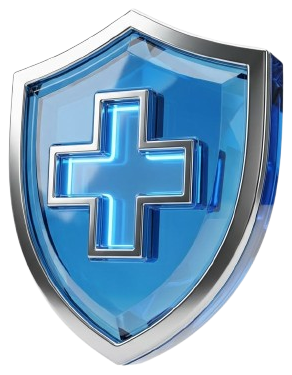
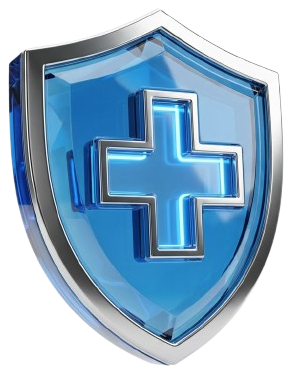
fix: jerarquia del modal de timeout y escudo a la izquierda

diff --git a/src/app/components/layout/SessionIdleModal.module.css b/src/app/components/layout/SessionIdleModal.module.css
@@ -11,31 +11,28 @@
 }
 
 .card {
-	width: min(520px, 100%);
-	padding: 1.65rem 1.7rem 1.4rem;
+	width: min(560px, 100%);
+	overflow: hidden;
 	border-radius: 16px;
 	background: #fff;
 	box-shadow: 0 24px 48px rgba(15, 23, 42, 0.22);
 	text-align: left;
 }
 
-.row {
+.main {
 	display: flex;
 	align-items: center;
-	gap: 1rem 1.15rem;
-}
-
-.copy {
-	flex: 1 1 auto;
-	min-width: 0;
+	gap: 0;
+	padding: 1.45rem 1.55rem 1.35rem;
 }
 
 .art {
 	flex: 0 0 auto;
 	display: block;
-	width: 108px;
+	width: 104px;
 	height: auto;
-	max-width: 108px;
+	max-width: 104px;
+	margin-right: 1.2rem;
 	border: 0;
 	border-radius: 0;
 	background: none;
@@ -45,35 +42,61 @@
 	user-select: none;
 }
 
+.rule {
+	flex: 0 0 1px;
+	align-self: stretch;
+	width: 1px;
+	margin: 0.15rem 1.25rem 0.15rem 0;
+	background: #e2e8f0;
+}
+
+.copy {
+	flex: 1 1 auto;
+	min-width: 0;
+}
+
 .kicker {
-	margin: 0 0 0.45rem;
-	font-size: 0.7rem;
+	margin: 0 0 0.4rem;
+	font-size: 0.68rem;
 	font-weight: 800;
-	letter-spacing: 0.08em;
+	letter-spacing: 0.1em;
 	text-transform: uppercase;
-	color: #0284c7;
+	color: #0083a9;
 }
 
 .title {
 	margin: 0;
-	font-size: 1.35rem;
+	font-size: 1.42rem;
 	font-weight: 800;
 	letter-spacing: -0.03em;
+	line-height: 1.15;
 	color: #0f172a;
 }
 
-.body {
+.lead {
 	margin: 0.7rem 0 0;
-	font-size: 0.95rem;
+	padding-top: 0.7rem;
+	border-top: 1px solid #eef2f6;
+	font-size: 0.93rem;
 	line-height: 1.5;
-	color: #334155;
+	color: #475569;
+}
+
+.footer {
+	display: flex;
+	flex-direction: column;
+	gap: 0.75rem;
+	padding: 0.95rem 1.55rem 1.2rem;
+	border-top: 1px solid #e2e8f0;
+	background: #f8fafc;
 }
 
 .hint {
-	margin: 0.45rem 0 0;
-	font-size: 0.9rem;
+	margin: 0;
+	font-size: 0.82rem;
 	font-weight: 600;
-	color: #0f172a;
+	line-height: 1.4;
+	color: #64748b;
 }
 
 .cta {
@@ -81,7 +104,6 @@
 	align-items: center;
 	justify-content: center;
 	width: 100%;
-	margin-top: 1.35rem;
 	padding: 0.72rem 1.1rem;
 	border: none;
 	border-radius: 24px;
@@ -99,16 +121,25 @@
 }
 
 @media (max-width: 480px) {
-	.card {
-		padding: 1.25rem 1.15rem 1.15rem;
+	.main {
+		padding: 1.15rem 1.15rem 1.05rem;
 	}
 
 	.art {
-		width: 84px;
-		max-width: 84px;
+		width: 78px;
+		max-width: 78px;
+		margin-right: 0.9rem;
+	}
+
+	.rule {
+		margin-right: 0.9rem;
 	}
 
 	.title {
-		font-size: 1.15rem;
+		font-size: 1.18rem;
+	}
+
+	.footer {
+		padding: 0.85rem 1.15rem 1rem;
 	}
 }

diff --git a/src/app/components/layout/SessionIdleModal.tsx b/src/app/components/layout/SessionIdleModal.tsx
@@ -67,17 +67,7 @@ export default function SessionIdleModal() {
 			}}
 		>
 			<div className={styles.card}>
-				<div className={styles.row}>
-					<div className={styles.copy}>
-						<p className={styles.kicker}>Seguridad de la sesión</p>
-						<h2 id="idle-title" className={styles.title}>
-							Sesión finalizada
-						</h2>
-						<p className={styles.body}>
-							Por inactividad, cerramos tu sesión para proteger la información clínica.
-						</p>
-						<p className={styles.hint}>Iniciá sesión cuando vuelvas.</p>
-					</div>
+				<div className={styles.main}>
 					<img
 						src={shieldSrc.src}
 						alt=""
@@ -86,10 +76,23 @@ export default function SessionIdleModal() {
 						height={shieldSrc.height}
 						aria-hidden="true"
 					/>
+					<div className={styles.rule} aria-hidden="true" />
+					<div className={styles.copy}>
+						<p className={styles.kicker}>Seguridad de la sesión</p>
+						<h2 id="idle-title" className={styles.title}>
+							Sesión finalizada
+						</h2>
+						<p className={styles.lead}>
+							Por inactividad, cerramos tu sesión para proteger la información clínica.
+						</p>
+					</div>
 				</div>
-				<button type="button" className={styles.cta} onClick={() => finish('login')}>
-					Iniciar sesión
-				</button>
+				<div className={styles.footer}>
+					<p className={styles.hint}>Iniciá sesión cuando vuelvas.</p>
+					<button type="button" className={styles.cta} onClick={() => finish('login')}>
+						Iniciar sesión
+					</button>
+				</div>
 			</div>
 		</div>
 	);
